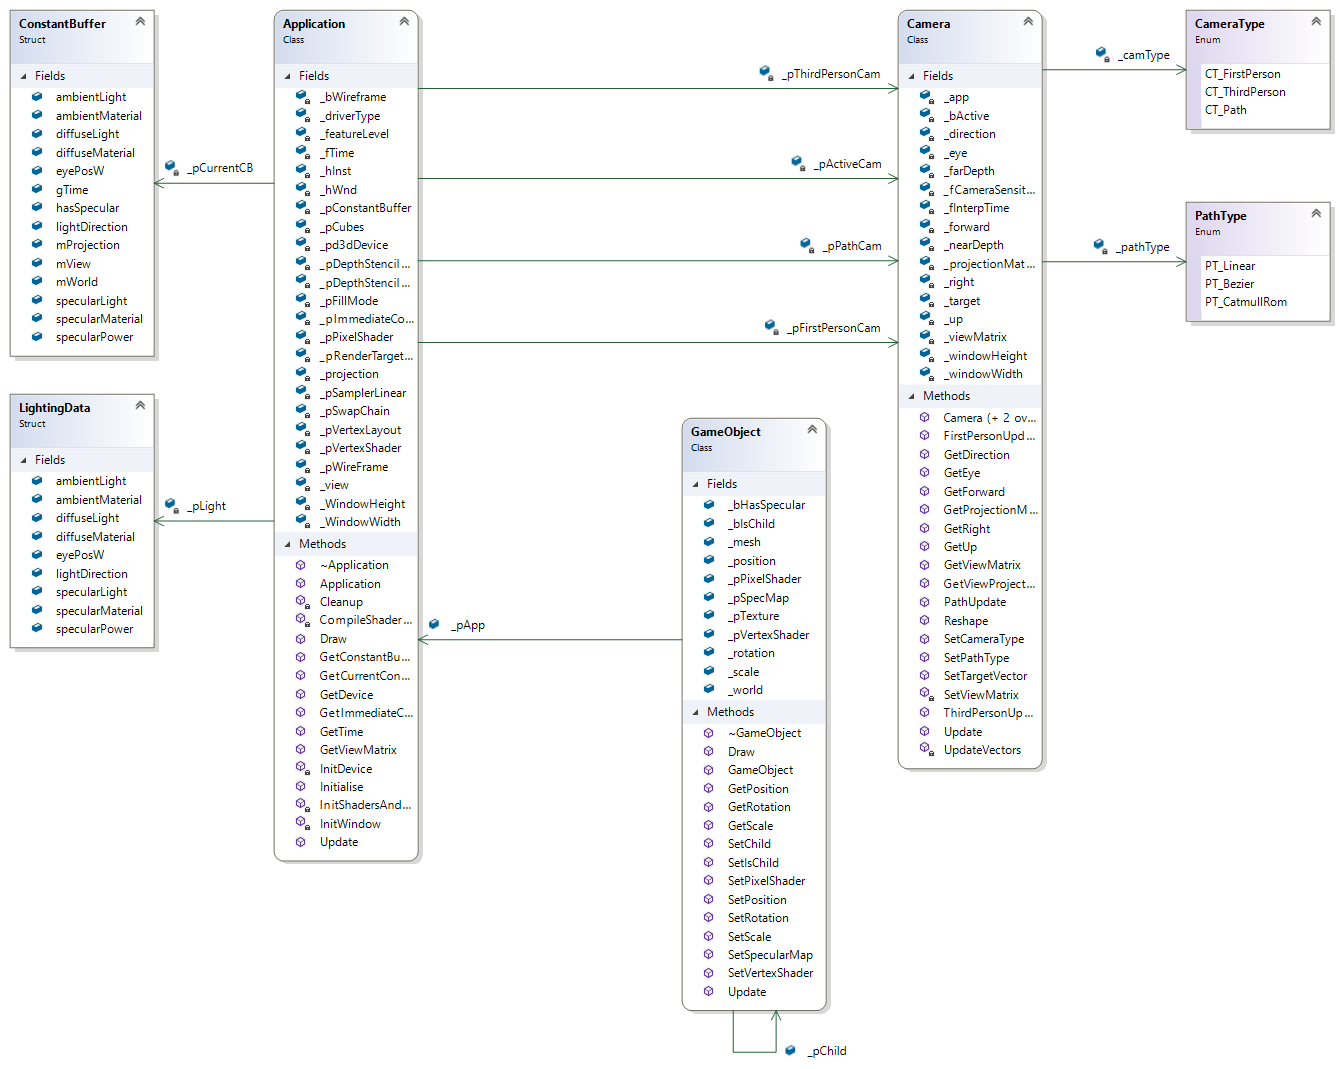
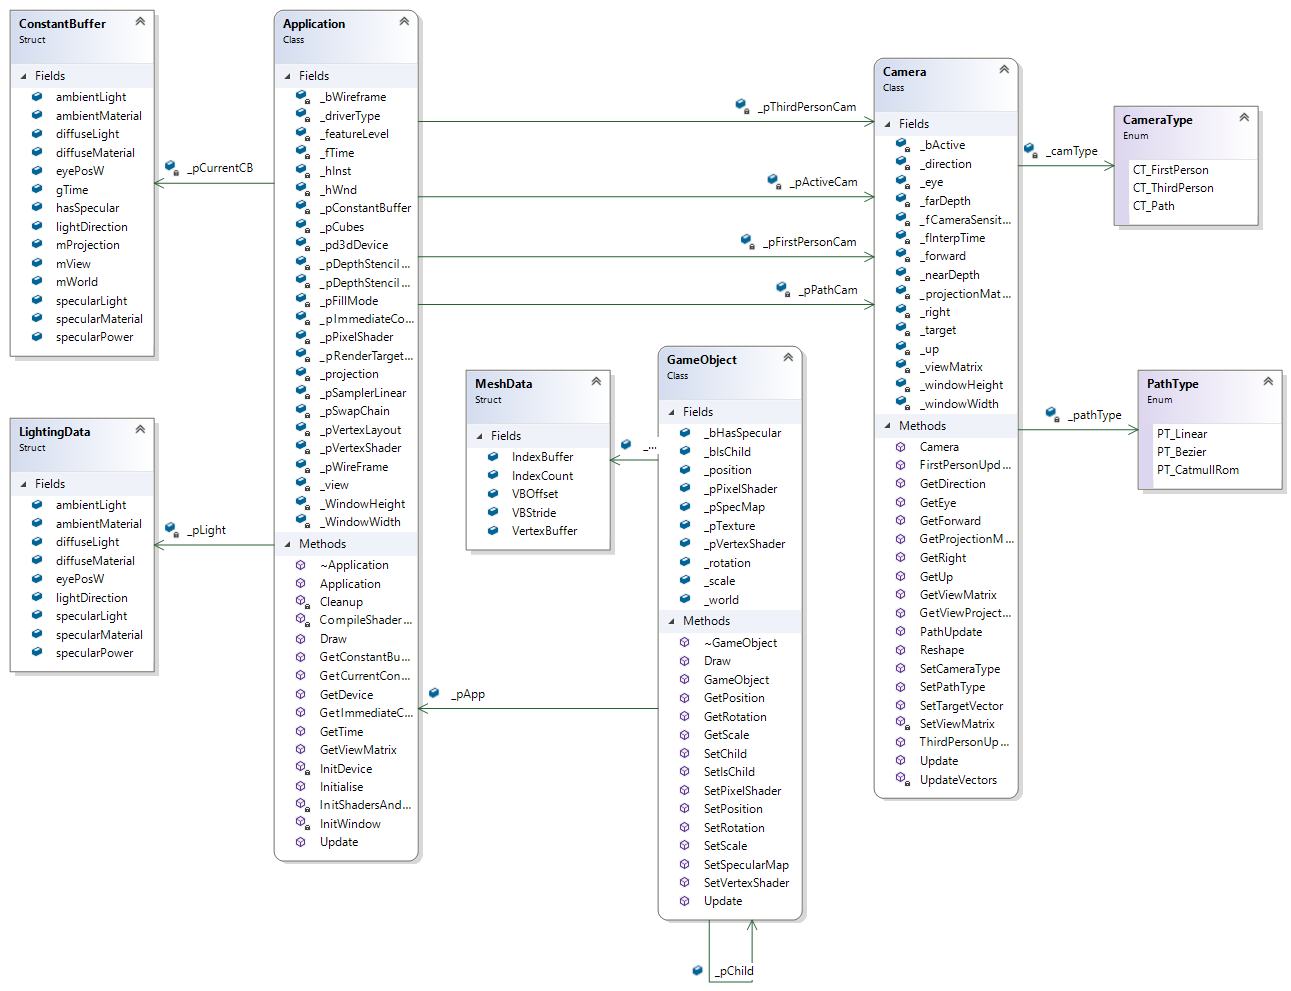
Updated Camera & UML Diagram

Changed region(s): [[0.0, 0.0, 1.0, 0.999]]

diff --git a/DX11 Framework 2018/Application.cpp b/DX11 Framework 2018/Application.cpp
@@ -55,11 +55,11 @@ HRESULT Application::Initialise(HINSTANCE hInstance, int nCmdShow)
     }
 
 	// Set up cameras
-	_pFirstPersonCam = new Camera(this, CT_FirstPerson, PT_Linear, _WindowWidth, _WindowHeight, 0.01f, 100.0f);
+	_pFirstPersonCam = new Camera(CT_FirstPerson, PT_Linear, _WindowWidth, _WindowHeight, 0.01f, 100.0f);
 	_pActiveCam = _pFirstPersonCam;
 	
-	_pThirdPersonCam = new Camera(this, CT_ThirdPerson, PT_Linear, _WindowWidth, _WindowHeight, 0.01f, 100.0f);
-	_pPathCam = new Camera(this, CT_Path, PT_Linear, _WindowWidth, _WindowHeight, 0.01f, 100.0f);
+	_pThirdPersonCam = new Camera(CT_ThirdPerson, PT_Linear, _WindowWidth, _WindowHeight, 0.01f, 100.0f);
+	_pPathCam = new Camera(CT_Path, PT_Linear, _WindowWidth, _WindowHeight, 0.01f, 100.0f);
 
     // Initialize the view matrix
 	_view = _pActiveCam->GetViewMatrix();

diff --git a/DX11 Framework 2018/Camera.h b/DX11 Framework 2018/Camera.h
@@ -27,8 +27,6 @@ enum PathType
 
 class Camera
 {
-	Application* _app;
-
 	XMFLOAT3 _eye = XMFLOAT3(0.0f, 0.0f, -30.0f);
 	XMFLOAT3 _direction = XMFLOAT3(1.0f, 0.0f, 0.0f);
 	XMFLOAT3 _up = XMFLOAT3(0.0f, 1.0f, 0.0f);
@@ -53,20 +51,7 @@ class Camera
 	void UpdateVectors();
 
 public:
-	Camera(Application* app)
-	{
-		_app = app;
-		SetViewMatrix();
-	}
-
-	Camera(Application* app, CameraType camType)
-	{
-		_app = app;
-		_camType = camType;
-		SetViewMatrix();
-	}
-
-	Camera(Application* app, CameraType camType, PathType pathType, FLOAT windowWidth, FLOAT windowHeight, FLOAT nearDepth, FLOAT farDepth);
+	Camera(CameraType camType, PathType pathType, FLOAT windowWidth, FLOAT windowHeight, FLOAT nearDepth, FLOAT farDepth);
 
 	void Update();
 	void FirstPersonUpdate();

diff --git a/DX11 Framework 2018/Camera.cpp b/DX11 Framework 2018/Camera.cpp
@@ -1,9 +1,8 @@
 #include "Camera.h"
 #include "Application.h"
 
-Camera::Camera(Application* app, CameraType camType, PathType pathType, FLOAT windowWidth, FLOAT windowHeight, FLOAT nearDepth, FLOAT farDepth)
+Camera::Camera(CameraType camType, PathType pathType, FLOAT windowWidth, FLOAT windowHeight, FLOAT nearDepth, FLOAT farDepth)
 {
-	_app = app;
 	_camType = camType;
 	_pathType = pathType;
 	_windowWidth = windowWidth;
